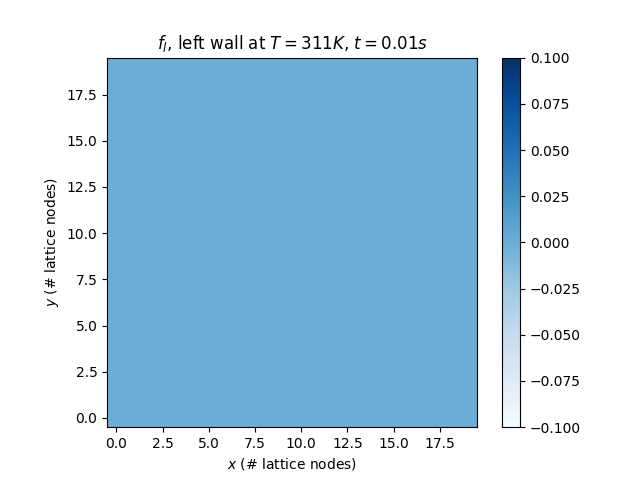
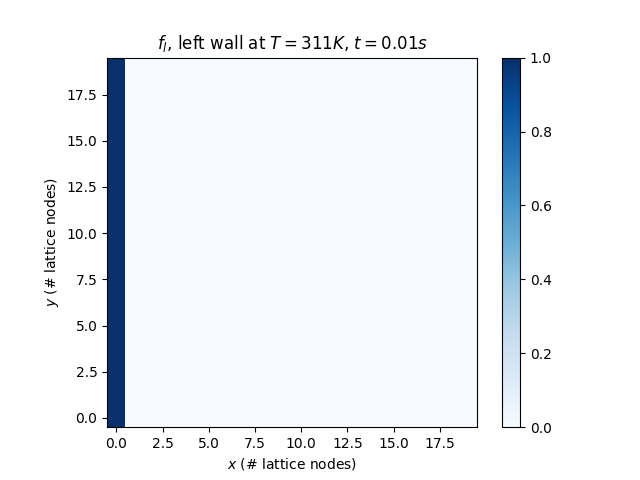
Commit 1 8apr

diff --git a/Tlinear_sq_cav.py b/Tlinear_sq_cav.py
@@ -8,16 +8,17 @@ from numba import njit
 
 np.set_printoptions(threshold=sys.maxsize)
 pd.set_option("display.max_rows", None, "display.max_columns", None)
-folder_nr = 'water_Hsource'
+folder_nr = 'water_Tlinear'
 
 # Define constants
 # Physical parameters water
 L = 0.1             # Length of cavity (m)
 H = L               # Height of cavity (m)
 g = 9.81            # Gravitational acceleration (m/s^2)
-Time = 2000          # (s)
+Time = 1000         # (s)
 nu = 1e-6           # Kinematic viscosity (m^2/s)
 alpha = 1.44e-7     # Thermal diffusivity (m^2/s)
+lbda = 0.6          # Thermal conductivity (W/m K)
 rho0 = 1e3          # Density (kg/m^3)
 beta = 210e-6       # Thermal expansion (1/K)
 Lat = 334e3         # Latent heat (J/kg)
@@ -37,7 +38,7 @@ umax = np.sqrt(g * beta * (T_H - T0) * L)           # Maximal velocity
 # H = 0.714*L         # Height of cavity (m)
 # g = 9.81            # Gravitational acceleration (m/s^2)
 # rho0 = 1e3          # Density (kg/m^3)
-# lbda = 33           # Thermal conductivity
+# lbda = 33           # Thermal conductivity (W/m K)
 # mu = 1.81e-3        # Dynamic viscosity (Ns/m^2)
 # nu = mu/rho0        # Kinematic viscosity (m^2/s)
 # beta = 1.2e-4       # Thermal expansion (1/K)
@@ -64,7 +65,7 @@ Ma = 0.1                                            # Mach number
 Lambda = 1/4        # Magic parameter
 tau_plus = 0.51     # Even relaxation time
 rho0_sim = 1        # Starting simulation density
-Ny = 20             # Nodes in y-direction
+Ny = 10             # Nodes in y-direction
 
 dx_sim = 1          # simulation length
 dt_sim = 1          # simulation time
@@ -111,7 +112,8 @@ uy = np.zeros(dim)                 # Simulation velocity in y direction
 rho_sim = rho0_sim * np.ones(dim)  # Simulation density
 T_dim = np.zeros((Nx+2, Ny+2))     # Dimensionless simulation temperature
 f_l = np.zeros(dim)                # Liquid fraction
-f_l_t_1 = np.zeros(dim)            # Liquid fraction one time step before
+h = c_p * T0 * np.ones(dim)        # Enthalpy
+c_app = c_p * np.ones(dim)
 
 # Temperature BCS
 T_dim_H = np.ones(Ny+2) * beta * (T_H - T0)
@@ -410,64 +412,100 @@ def force_source(w_i, c_i, c_s, tau_plus, F):
 
     return Si
 
-def temperature(T, alpha, Lat, c_p, beta, ux, uy, t, T_dim_C, T_dim_H, f_l_t_1, f_l_t_2):
+def temperature(T_old, h_old, c_app_old, f_l_old, ux, uy, t, T_dim_C, T_dim_H):
     T_new = np.zeros((Nx+2, Ny+2))
-    f_l = f_l_t_1.copy()
+    f_l = f_l_old.copy()
+    f_l_iter = -1
 
-    Tm_sim = beta * (Tm - T0)
-    epsilon_sim = epsilon * beta
+    c_s = c_p
+    c_l = c_p
+    Ts = Tm - epsilon
+    Tl = Tm + epsilon
 
-    def energy_eq(i, j, T, ux, uy, f_l_old_iter, f_l_old_time):
-        T_cell = (1 - 6 * alpha) * T[i, j] + (2 * alpha - ux[i-1, j-1]) * T[i+1, j] \
-                      + (2 * alpha + ux[i-1, j-1]) * T[i-1, j] + (2 * alpha - uy[i-1, j-1]) * T[i, j+1] \
-                      + (2 * alpha + uy[i-1, j-1]) * T[i, j-1] + (ux[i-1, j-1] / 4 + uy[i-1, j-1] / 4 - alpha / 2) * T[i+1, j+1] \
-                      + (-ux[i-1, j-1] / 4 + uy[i-1, j-1] / 4 - alpha / 2) * T[i-1, j+1] + (ux[i-1, j-1] / 4 - uy[i-1, j-1] / 4 - alpha / 2) * T[i+1, j-1] \
-                      + (-ux[i-1, j-1] / 4 - uy[i-1, j-1] / 4 - alpha / 2) * T[i-1, j-1] - beta * Lat / c_p * (f_l_old_iter - f_l_old_time)
+    h_s = c_s * Ts
+    h_l = (c_s + c_l) / 2 * (Tl - Ts) + h_s + Lat
+    print(h_s, h_l)
 
-        return T_cell
+    T_iter = T_old / beta + T0
+    T_H = T_dim_H / beta + T0
+    T_C = T_dim_C / beta + T0
+    h_iter = h_old.copy()
+    c_app_iter = c_app_old.copy()
 
-    for j in range(1, Ny+1):
-        for i in range(1, Nx+1):
-            f_l_old_iter = f_l_t_1[i-1, j-1].copy()
-            f_l_old_time = f_l_t_2[i-1, j-1].copy()
+    def energy_eq(i, j, T, ux, uy, c_app, h, h_old):
+        T_new = T[i, j] + (h[i-1, j-1] - h_old[i-1, j-1]) / c_app[i-1, j-1] \
+                - (c_p * dt / (c_app[i-1, j-1] * dx)) * (ux[i-1, j-1] * (T[i+1, j] - T[i-1, j] - 1 / 4 * (T[i+1, j+1] - T[i-1, j+1] + T[i+1, j-1] - T[i-1, j-1])) \
+                - uy[i-1, j-1] * (T[i, j+1] - T[i, j-1] - 1 / 4 * (T[i+1, j+1] - T[i+1, j-1] + T[i-1, j+1] - T[i-1, j-1]))) \
+                + (lbda * dt / (rho0 * c_app[i-1, j-1] * dx**2)) * (2 * (T[i+1, j] + T[i-1, j] + T[i, j+1] + T[i, j-1])
+                - 1 / 2 * (T[i+1, j+1] + T[i-1, j+1] + T[i+1, j-1] + T[i-1, j-1]) - 6 * T[i, j])
 
-            T_new[i, j] = energy_eq(i, j, T, ux, uy, f_l_old_iter, f_l_old_time)
+        # T_new = c_app_iter[i-1, j-1] / c_p * T_iter[i, j] - 1 / c_p * (h_iter[i-1, j-1] - h_old[i-1, j-1]) - \
+        #         ux[i-1, j-1] * (T_iter[i+1, j] - T_iter[i-1, j] - 1 / 4 * (T_iter[i+1, j+1] - T_iter[i-1, j+1] + T_iter[i+1, j-1] - T_iter[i-1, j-1])) \
+        #         - uy[i-1, j-1] * (T_iter[i, j+1] - T_iter[i, j-1] - 1 / 4 * (T_iter[i+1, j+1] - T_iter[i+1, j-1] + T_iter[i-1, j+1] - T_iter[i-1, j-1])) \
+        #         + alpha * (2 * (T_iter[i+1, j] + T_iter[i-1, j] + T_iter[i, j+1] + T_iter[i, j-1])
+        #         - 1 / 2 * (T_iter[i+1, j+1] + T_iter[i-1, j+1] + T_iter[i+1, j-1] + T_iter[i-1, j-1]) - 6 * T_iter[i, j])
 
-            if T_new[i, j] < (Tm_sim-epsilon_sim):
-                f_l[i-1, j-1] = 0
-            elif T_new[i, j] > (Tm_sim+epsilon_sim):
-                f_l[i-1, j-1] = 1
-            else:
-                x = 0
-                while True:
-                    x += 1
-                    T_new[i, j] = energy_eq(i, j, T, ux, uy, f_l_old_iter, f_l_old_time)
+        return T_new
+    z = 1
+    while True:
+        for j in range(1, Ny+1):
+            for i in range(1, Nx+1):
+                T_new[i, j] = energy_eq(i, j, T_iter, ux, uy, c_app_iter, h_iter, h_old)
 
-                    # T_prime = Tm - epsilon + 2 * epsilon * f_l_t_1[i-1, j-1]
-                    T_prime = Tm - epsilon + 2 * epsilon * f_l_old_iter
-                    T_new_phys = T_new[i, j] / beta + T0
+        h_new = h_iter + c_app_iter * (T_new[1:-1, 1:-1] - T_iter[1:-1, 1:-1])
 
-                    f_l[i-1, j-1] = f_l_old_iter + 0.1 * c_p / Lat * (T_new_phys - T_prime)
+        easy_view('T_new', T_new)
+        easy_view('h_new', h_new)
 
-                    if np.abs(f_l[i-1, j-1] - f_l_old_iter) < 1e-5:
-                        f_l[i-1, j-1] = min(max(f_l[i-1, j-1], 0), 1)
-                        break
+        for j in range(1, Ny+1):
+            for i in range(1, Nx+1):
+                if h_new[i-1, j-1] < h_s:
+                    T_new[i, j] = h_new[i-1, j-1] / c_s
+                elif h_new[i-1, j-1] > h_l:
+                    T_new[i, j] = Tm - epsilon + (h_new[i-1, j-1] - (h_s + Lat)) / c_l
+                else:
+                    T_new[i, j] = Tm + epsilon + 2 * epsilon * (h_new[i-1, j-1] - h_s) / Lat
 
-                    f_l_old_time = f_l_t_1[i-1, j-1].copy()
-                    f_l_old_iter = f_l[i-1, j-1].copy()
+                if T_new[i, j] < Ts:
+                    c_app[i-1, j-1] = c_s
+                    f_l[i-1, j-1] = 0
+                elif T_new[i, j] > Tl:
+                    c_app[i-1, j-1] = c_l
+                    f_l[i-1, j-1] = 1
+                else:
+                    c_app[i-1, j-1] = c_s + (Lat / (Tl - Ts)) + (c_l - c_s) * (T_new[i, j] - Ts) / (Tl - Ts)
+                    f_l[i-1, j-1] = (T_new[i, j] - Ts) / (Tl - Ts)
 
-    # Ghost nodes
-    T_new[1:-1, 0] = 21/23 * T_new[1:-1, 1] + 3/23 * T_new[1:-1, 2] - 1/23 * T_new[1:-1, 3]         # Neumann extrapolation on lower boundary
-    T_new[1:-1, -1] = 21/23 * T_new[1:-1, -2] + 3/23 * T_new[1:-1, -3] - 1/23 * T_new[1:-1, -4]     # Neumann extrapolation on upper boundary
-    # T_new[-1, :] = 21/23 * T_new[-2, :] + 3/23 * T_new[-3, :] - 1/23 * T_new[-4, :]               # Neumann extrapolation on right boundary
-    T_new[0, :] = 16/15 * T_dim_H - 3 * T_new[1, :] + T_new[2, :] - 1/5 * T_new[3, :]               # Dirichlet extrapolation on left boundary
-    T_new[-1, :] = 16/15 * T_dim_C - 3 * T_new[-2, :] + T_new[-3, :] - 1/5 * T_new[-4, :]           # Dirichlet extrapolation on right boundary
+        easy_view('T_new2', T_new)
+        easy_view('f_l', f_l)
 
-    # if (t>4290) and (t<4300):
-    #     easy_view(t, f_l)
-    #     easy_view(t, T_new / beta + T0)
+        # Ghost nodes
+        T_new[1:-1, 0] = 21/23 * T_new[1:-1, 1] + 3/23 * T_new[1:-1, 2] - 1/23 * T_new[1:-1, 3]         # Neumann extrapolation on lower boundary
+        T_new[1:-1, -1] = 21/23 * T_new[1:-1, -2] + 3/23 * T_new[1:-1, -3] - 1/23 * T_new[1:-1, -4]     # Neumann extrapolation on upper boundary
+        # T_new[-1, :] = 21/23 * T_new[-2, :] + 3/23 * T_new[-3, :] - 1/23 * T_new[-4, :]               # Neumann extrapolation on right boundary
+        T_new[0, :] = 16/5 * T_H - 3 * T_new[1, :] + T_new[2, :] - 1/5 * T_new[3, :]               # Dirichlet extrapolation on left boundary
+        T_new[-1, :] = 16/5 * T_C - 3 * T_new[-2, :] + T_new[-3, :] - 1/5 * T_new[-4, :]           # Dirichlet extrapolation on right boundary
 
-    return T_new, f_l, f_l_t_1
+        easy_view(z, T_new)
+
+        if np.any(abs(f_l - f_l_iter)) < 1e-6:
+            break
+        else:
+            T_iter = T_new.copy()
+            h_iter = h_new.copy()
+            c_app_iter = c_app.copy()
+            f_l_iter = f_l.copy()
+
+        z += 1
+
+    # if t > 3000:
+    #     if (t % 400 == 0):
+    #         easy_view(t, T_new)
+    #         easy_view(t, f_l)
+
+    T_dim = beta * (T_new - T0)
+
+    return T_dim, h_new, c_app, f_l
 
 # Buoyancy force
 F_buoy = - T_dim[1:-1, 1:-1, None] * g_sim
@@ -499,7 +537,8 @@ for t in range(Nt):
     uy[B == 1] = 0
 
     # Calculate temperature and liquid fraction
-    T_dim, f_l, f_l_t_1 = temperature(T_dim, alpha_sim, Lat, c_p, beta, ux, uy, t, T_dim_C, T_dim_H, f_l, f_l_t_1)
+    T_dim, h, c_app, f_l = temperature(T_dim, h, c_app, f_l, ux, uy, t, T_dim_C, T_dim_H)
+    # T_dim, f_l, f_l_t_1 = temperature(T_dim, alpha_sim, Lat, c_p, beta, ux, uy, t, T_dim_C, T_dim_H, f_l, f_l_t_1)
 
     # Calculate new equilibrium distribution
     f_eq_plus, f_eq_minus = f_equilibrium(w_i, rho_sim, ux, uy, c_i, q, c_s)
@@ -514,7 +553,7 @@ for t in range(Nt):
     # Streaming step
     f_plus, f_minus = streaming(Nx, Ny, f_plus, f_minus, f_star)
 
-    if (t % 10000 == 1):
+    if (t % 2000 == 1):
         T = T_dim / beta + T0
 
         # Liquid fraction
@@ -526,24 +565,24 @@ for t in range(Nt):
         plt.colorbar()
         plt.savefig(f"Figures/hsource_trt-fsm_sq_cav/{folder_nr}/heatmap_fl_t={np.round(t/Nt*Time, decimals=2)}_N{Ny}.png")
 
-        # Velocities
-        plt.figure()
-        plt.clf()
-        plt.imshow(np.flip(uy, axis=1).T, cmap=cm.Blues)
-        plt.xlabel('$x$ (# lattice nodes)')
-        plt.ylabel('$y$ (# lattice nodes)')
-        plt.title(f'$u_y$, left wall at $T={T_H}K$, $t={np.round(t/Nt*Time, decimals=2)}s$')
-        plt.colorbar()
-        plt.savefig(f"Figures/hsource_trt-fsm_sq_cav/{folder_nr}/heatmap_uy_t={np.round(t/Nt*Time, decimals=2)}_N{Ny}.png")
-
-        plt.figure()
-        plt.clf()
-        plt.imshow(ux.T, cmap=cm.Blues, origin='lower')
-        plt.xlabel('$x$ (# lattice nodes)')
-        plt.ylabel('$y$ (# lattice nodes)')
-        plt.title(f'$u_x$, left wall at $T={T_H}K$, $t={np.round(t/Nt*Time, decimals=2)}s$')
-        plt.colorbar()
-        plt.savefig(f"Figures/hsource_trt-fsm_sq_cav/{folder_nr}/heatmap_ux_t={np.round(t/Nt*Time, decimals=3)}_N{Ny}.png")
+        # # Velocities
+        # plt.figure()
+        # plt.clf()
+        # plt.imshow(np.flip(uy, axis=1).T, cmap=cm.Blues)
+        # plt.xlabel('$x$ (# lattice nodes)')
+        # plt.ylabel('$y$ (# lattice nodes)')
+        # plt.title(f'$u_y$, left wall at $T={T_H}K$, $t={np.round(t/Nt*Time, decimals=2)}s$')
+        # plt.colorbar()
+        # plt.savefig(f"Figures/hsource_trt-fsm_sq_cav/{folder_nr}/heatmap_uy_t={np.round(t/Nt*Time, decimals=2)}_N{Ny}.png")
+        #
+        # plt.figure()
+        # plt.clf()
+        # plt.imshow(ux.T, cmap=cm.Blues, origin='lower')
+        # plt.xlabel('$x$ (# lattice nodes)')
+        # plt.ylabel('$y$ (# lattice nodes)')
+        # plt.title(f'$u_x$, left wall at $T={T_H}K$, $t={np.round(t/Nt*Time, decimals=2)}s$')
+        # plt.colorbar()
+        # plt.savefig(f"Figures/hsource_trt-fsm_sq_cav/{folder_nr}/heatmap_ux_t={np.round(t/Nt*Time, decimals=3)}_N{Ny}.png")
 
         ## Temperature heatmap
         plt.figure()
@@ -564,14 +603,14 @@ for t in range(Nt):
         # plt.colorbar()
         # plt.savefig(f"Figures/hsource_trt-fsm_sq_cav/{folder_nr}/heatmap_rho_time{Time}_t={np.round(t/Nt*Time, decimals=3)}.png")
 
-        # Vector plot
-        plt.figure()
-        plt.quiver(Cu*ux.T, Cu*uy.T)
-        plt.xlabel('$x$ (# lattice nodes)')
-        plt.ylabel('$y$ (# lattice nodes)')
-        plt.title(f'$u$ in pipe with left wall at $T={T_H}K$, $t={np.round(t/Nt*Time, decimals=2)}s$')
-        # plt.legend('Velocity vector')
-        plt.savefig(f"Figures/hsource_trt-fsm_sq_cav/{folder_nr}/arrowplot_time{Time}_test.png")
+        # # Vector plot
+        # plt.figure()
+        # plt.quiver(Cu*ux.T, Cu*uy.T)
+        # plt.xlabel('$x$ (# lattice nodes)')
+        # plt.ylabel('$y$ (# lattice nodes)')
+        # plt.title(f'$u$ in pipe with left wall at $T={T_H}K$, $t={np.round(t/Nt*Time, decimals=2)}s$')
+        # # plt.legend('Velocity vector')
+        # plt.savefig(f"Figures/hsource_trt-fsm_sq_cav/{folder_nr}/arrowplot_time{Time}_test.png")
 
         plt.close('all')
 

diff --git a/hsource_sq_cav.py b/hsource_sq_cav.py
@@ -32,7 +32,7 @@ folder_nr = 'gallium_Hsource'
 # umax = np.sqrt(g * beta * (T_H - T0) * L)           # Maximal velocity
 
 # Physical parameters gallium
-Time = 2000          # (s)
+Time = 200          # (s)
 L = 0.1             # Length of cavity (m)
 H = 0.714*L         # Height of cavity (m)
 g = 9.81            # Gravitational acceleration (m/s^2)
@@ -461,8 +461,10 @@ def temperature(T, alpha, Lat, c_p, beta, ux, uy, t, T_dim_C, T_dim_H, f_l_t_1, 
     T_new[1:-1, 0] = 21/23 * T_new[1:-1, 1] + 3/23 * T_new[1:-1, 2] - 1/23 * T_new[1:-1, 3]         # Neumann extrapolation on lower boundary
     T_new[1:-1, -1] = 21/23 * T_new[1:-1, -2] + 3/23 * T_new[1:-1, -3] - 1/23 * T_new[1:-1, -4]     # Neumann extrapolation on upper boundary
     # T_new[-1, :] = 21/23 * T_new[-2, :] + 3/23 * T_new[-3, :] - 1/23 * T_new[-4, :]               # Neumann extrapolation on right boundary
-    T_new[0, :] = 16/15 * T_dim_H - 3 * T_new[1, :] + T_new[2, :] - 1/5 * T_new[3, :]               # Dirichlet extrapolation on left boundary
-    T_new[-1, :] = 16/15 * T_dim_C - 3 * T_new[-2, :] + T_new[-3, :] - 1/5 * T_new[-4, :]           # Dirichlet extrapolation on right boundary
+    T_new[0, :] = 16/5 * T_dim_H - 3 * T_new[1, :] + T_new[2, :] - 1/5 * T_new[3, :]               # Dirichlet extrapolation on left boundary
+    T_new[-1, :] = 16/5 * T_dim_C - 3 * T_new[-2, :] + T_new[-3, :] - 1/5 * T_new[-4, :]           # Dirichlet extrapolation on right boundary
+
+    # easy_view(t, T_new / beta + T0)
 
     # if (t>4290) and (t<4300):
     #     easy_view(t, f_l)
@@ -515,7 +517,7 @@ for t in range(Nt):
     # Streaming step
     f_plus, f_minus = streaming(Nx, Ny, f_plus, f_minus, f_star)
 
-    if (t % 4000 == 1):
+    if (t % 2000 == 1):
         T = T_dim / beta + T0
 
         # Liquid fraction

diff --git a/test.py b/test.py
@@ -1,0 +1,6 @@
+import numpy as np
+
+x = np.array([[0, 1, 2], [3, 4, 5]])
+y = np.array([[0, 1, 3.5], [3, 1, 5]])
+z = np.any((abs(x - y) > 1))
+print(z)
